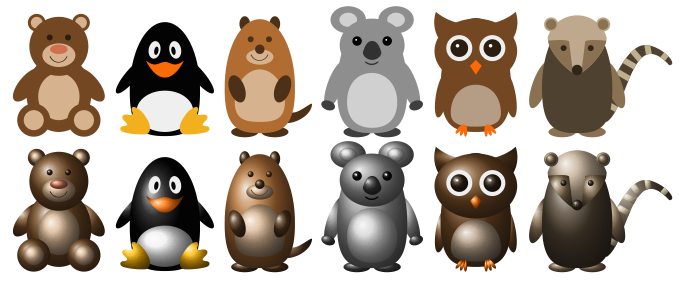
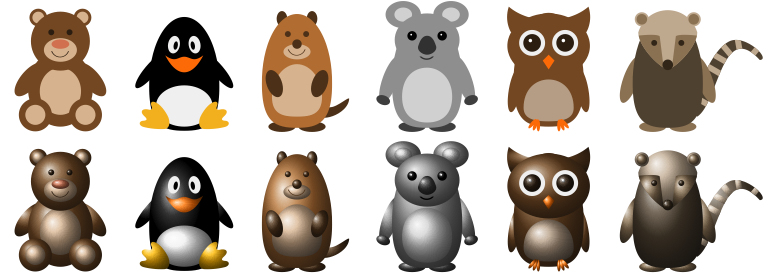
added custom body coati as example

diff --git a/ViewingPlatform/Coati_custom_body.tex b/ViewingPlatform/Coati_custom_body.tex
@@ -1,0 +1,35 @@
+\documentclass{standalone}
+\usepackage{tikz}
+
+\begin{document}
+
+
+\begin{tikzpicture}
+\fill[brown!50!darkgray!97!yellow!80!darkgray] (2.1094, 2.7755) .. controls (1.8654, 2.7782) and (1.70348, 2.56183) .. (1.57468, 2.3828) .. controls (1.4258, 2.1671) and (1.30388, 1.9345) .. (1.16059, 1.71528) .. controls (0.73699, 1.9847) and (0.088491, 1.9563) .. (-0.245703, 1.5567) .. controls (-0.382704, 1.4059) and (-0.341904, 1.1809) .. (-0.282805, 1.024) .. controls (-0.3783, 0.8369) and (-0.3289, 0.61421) .. (-0.405, 0.422) .. controls (-0.4605, 0.3562) and (-0.71001, 0.3252) .. (-0.57891, 0.196402) .. controls (-0.456304, 0.1386) and (-0.237504, 0.114604) .. (-0.18971, 0.280096) .. controls (-0.129704, 0.4539) and (-0.1693, 0.67671) .. (-0.0160014, 0.80749) .. controls (0.091393, 0.7035) and (0.370604, 0.77349) .. (0.303906, 0.56351) .. controls (0.2945, 0.3999) and (0.3107, 0.1965) .. (0.174697, 0.0786) .. controls (0.09459, 0.045202) and (-0.147606, 0.035399) .. (-0.0181994, -0.096099) .. controls (0.108999, -0.163698) and (0.3227, -0.21) .. (0.4031, -0.052598) .. controls (0.5401, 0.1688) and (0.61589, 0.423) .. (0.66668, 0.67681) .. controls (0.73309, 0.70059) and (0.88229, 0.62569) .. (0.88861, 0.57001) .. controls (0.76, 0.5629) and (0.5782, 0.341904) .. (0.80109, 0.333606) .. controls (0.94889, 0.306) and (1.12199, 0.3514) .. (1.1615, 0.51511) .. controls (1.2278, 0.6212) and (1.1441, 0.7296) .. (1.1013, 0.8084) .. controls (1.1798, 0.8705) and (1.23588, 0.9195) .. (1.27921, 0.808) .. controls (1.35058, 0.6836) and (1.52929, 0.6334) .. (1.56038, 0.4905) .. controls (1.52949, 0.388897) and (1.2686, 0.276206) .. (1.4732, 0.196699) .. controls (1.66268, 0.151502) and (1.86488, 0.2978) .. (1.8711, 0.495906) .. controls (1.9368, 0.70489) and (1.7084, 0.7377) .. (1.60609, 0.8552) .. controls (1.5167, 0.96639) and (1.477, 1.10619) .. (1.42231, 1.2356) .. controls (1.4405, 1.3746) and (1.32238, 1.4957) .. (1.4544, 1.6032) .. controls (1.6405, 1.90298) and (1.7402, 2.2614) .. (1.99198, 2.51703) .. controls (2.09806, 2.6318) and (2.28248, 2.6208) .. (2.39036, 2.5142) .. controls (2.46293, 2.47034) and (2.5801, 2.2442) .. (2.61026, 2.4336) .. controls (2.5453, 2.61692) and (2.3495, 2.7284) .. (2.16794, 2.7692) -- (2.13863, 2.77333) -- cycle;
+
+\begin{scope}[rotate around={-15:(0,1.68)}]
+	% Head %%%%%%%%%%%%%%%%%%%%%%%%%%%%%%%%%%%%%%%%%%%%%%%%%%%%%%%%%%%%%
+	\fill[brown!50!darkgray!97!yellow!45!white!95!orange] (0.5, 1.8) .. controls (0.5, 1.58) and (0.2, 1.25) .. (0, 1.16) .. controls (-0.2, 1.25) and (-0.5, 1.58) .. (-0.5, 1.8) .. controls (-0.34, 2.3) and (0.34, 2.3) .. (0.5, 1.8) -- cycle;
+	%
+	% Cheeks %%%%%%%%%%%%%%%%%%%%%%%%%%%%%%%%%%%%%%%%%%%%%%%%%%%%%%%%%%%
+	\fill[brown!50!darkgray!97!yellow!80!white] (-0.4935, 1.7443) .. controls (-0.4935, 1.7443) and (-0.1917, 1.7798) .. (-0.1371, 1.7333) .. controls (-0.07, 1.2) and (-0.07, 1.2) .. (-0.07, 1.2) .. controls (-0.259, 1.3169) and (-0.46, 1.5665) .. (-0.4935, 1.7443) -- cycle;
+	\fill[brown!50!darkgray!97!yellow!80!white] (0.4935, 1.7443) .. controls (0.4935, 1.7443) and (0.1917, 1.7798) .. (0.1371, 1.7333) .. controls (0.07, 1.2) and (0.07, 1.2) .. (0.07, 1.2) .. controls (0.259, 1.3169) and (0.46, 1.5665) .. (0.4935, 1.7443) -- cycle;
+	%
+	% Nose %%%%%%%%%%%%%%%%%%%%%%%%%%%%%%%%%%%%%%%%%%%%%%%%%%%%%%%%%%%%%
+	\fill[brown!50!darkgray!97!yellow!50!black] (0, 1.248) circle (0.09);
+	%
+	% Eyes %%%%%%%%%%%%%%%%%%%%%%%%%%%%%%%%%%%%%%%%%%%%%%%%%%%%%%%%%%%%%
+	\fill[brown!50!darkgray!97!yellow!50!black] (0.23, 1.62) circle (0.05);
+	\fill[brown!50!darkgray!97!yellow!50!black] (-0.23, 1.62) circle (0.05);
+	%
+	% Ears %%%%%%%%%%%%%%%%%%%%%%%%%%%%%%%%%%%%%%%%%%%%%%%%%%%%%%%%%%%%%
+	\fill[brown!50!darkgray!97!yellow!45!white!95!orange] (0.44, 2.02) circle (0.12);
+	\fill[brown!50!darkgray!97!yellow!80!white] (0.44, 2.02) circle (0.09);
+	\fill[brown!50!darkgray!97!yellow!45!white!95!orange] (-0.44, 2.02) circle (0.12);
+	\fill[brown!50!darkgray!97!yellow!80!white] (-0.44, 2.02) circle (0.09);
+	%	
+\end{scope}
+
+\end{tikzpicture}
+
+\end{document}

diff --git a/ViewingPlatform/tikzlings.tex b/ViewingPlatform/tikzlings.tex
@@ -1,52 +1,67 @@
-\documentclass{article}
+\documentclass{standalone}
 
 \usepackage{tikzlings}
 
 \begin{document}
-	
+
+\begin{tabular}{cccccc}
 \begin{tikzpicture}
 	\bear
 %	\thing[tophat=gray!60!black]
 \end{tikzpicture}	
+&
 \begin{tikzpicture}
 	\penguin
 %	\thing[tophat=gray!60!black]
 \end{tikzpicture}	
+&
 \begin{tikzpicture}
 	\marmot
 %	\thing[tophat=gray!60!black]
 \end{tikzpicture}	
+&
 \begin{tikzpicture}
 	\koala
 %	\thing[tophat=gray!60!black]
 \end{tikzpicture}	
+&
 \begin{tikzpicture}
 	\owl
 %	\thing[tophat=gray!60!black]
 \end{tikzpicture}	
+&
 \begin{tikzpicture}
 	\coati
 %	\thing[tophat=gray!60!black]
 \end{tikzpicture}	
-
+\\
 \begin{tikzpicture}
 	\bear[3D]
 \end{tikzpicture}	
+&
 \begin{tikzpicture}
 	\penguin[3D]
 \end{tikzpicture}	
+&
 \begin{tikzpicture}
 	\marmot[3D]
 \end{tikzpicture}	
+&
 \begin{tikzpicture}
 	\koala[3D]
 \end{tikzpicture}	
+&
 \begin{tikzpicture}
 	\owl[3D]
 \end{tikzpicture}	
+&
 \begin{tikzpicture}
 	\coati[3D]
 \end{tikzpicture}	
+\end{tabular}
+
+	
+
 
 
 \end{document}
